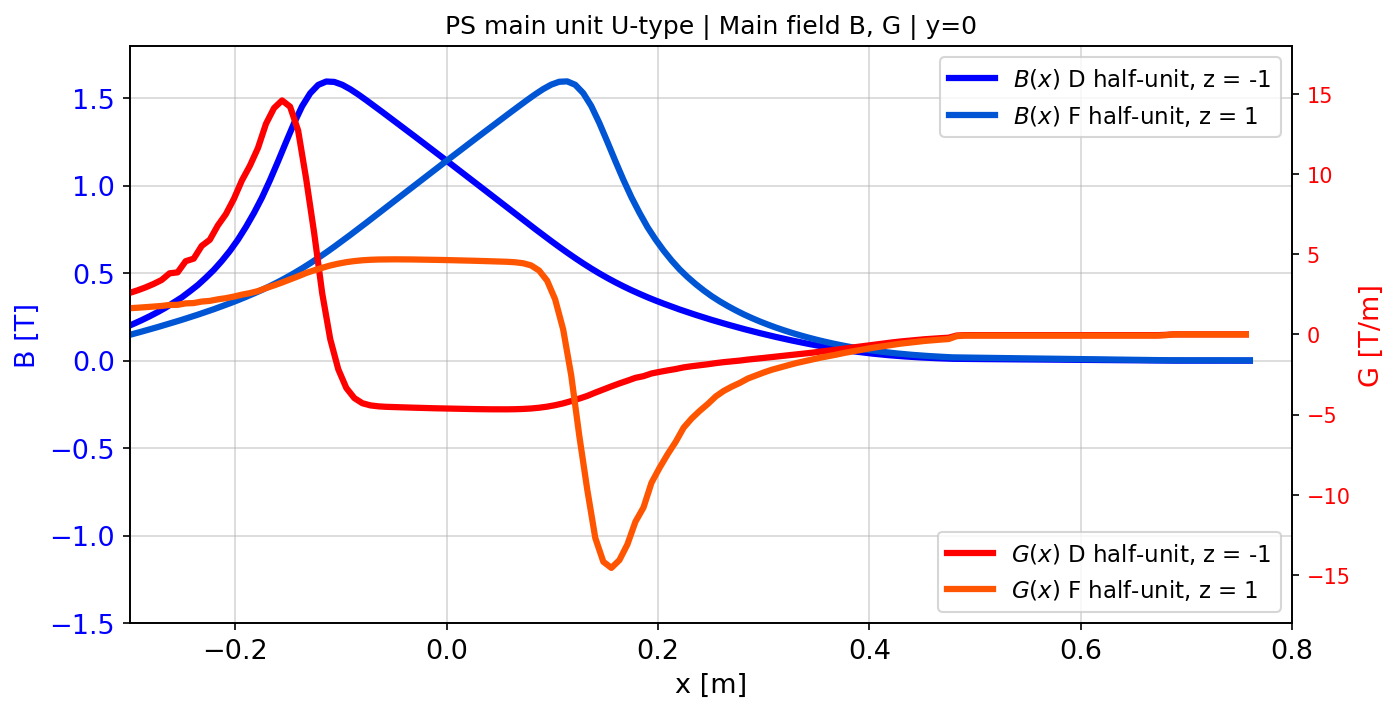
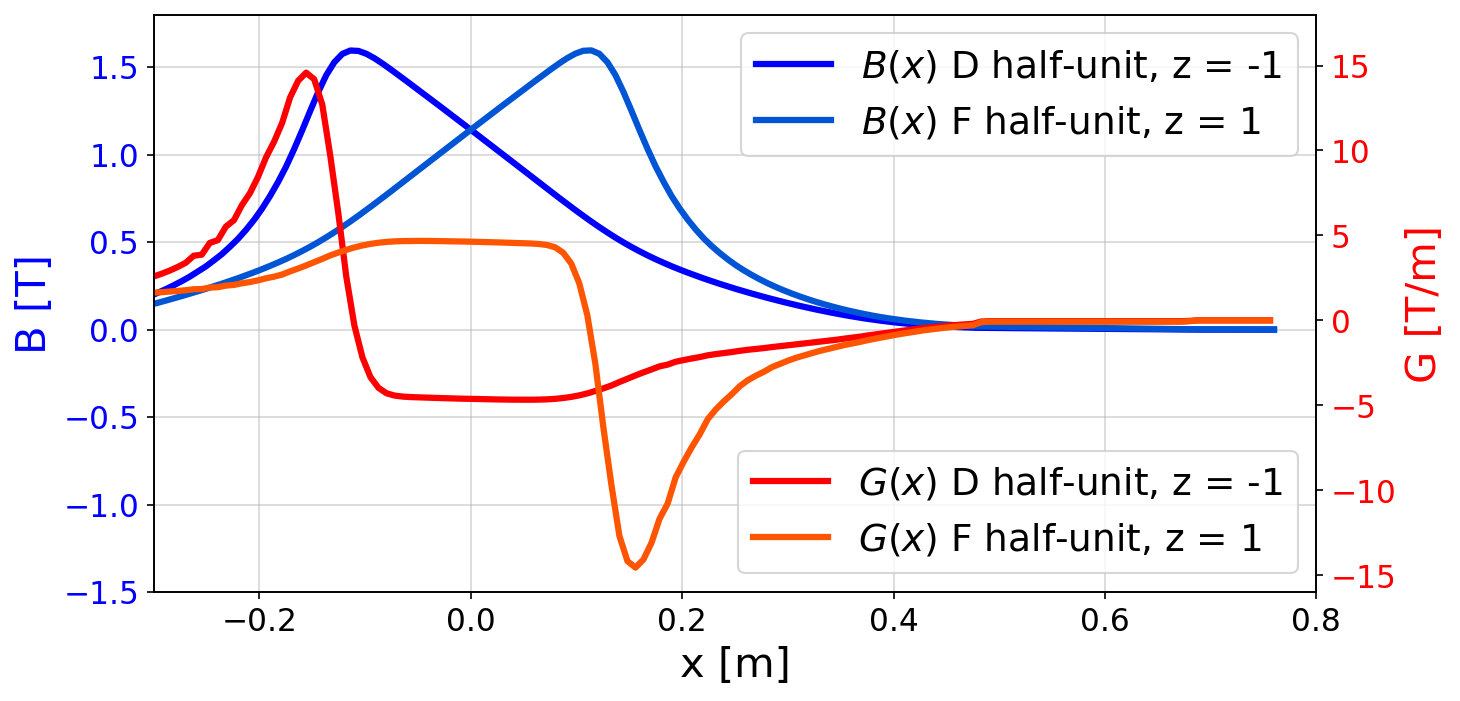
Increase the font of several images

diff --git a/JACoW_LaTeX_A4.tex b/JACoW_LaTeX_A4.tex
@@ -126,12 +126,10 @@ $$ x_{j} = \frac{x_{i+1} + x_{i}}{{2}} $$
  
 The gradient is constant and alternating in the central orbit region but reverses signs at the periphery and increases in magnitude in a nonlinear way; see Fig.\ref{fig:gradient_field}. Similar results have been previously made using magnetic measurements of the MU fields \cite{manglunki_beam_1997}. Earlier models of the stray field for extraction 16 at 26 GeV/c proved to be adequate in the description of operational beams. However, the OPERA model adds the possibility to quickly generate field maps at different energies, different PFW, different F8L settings and for different magnet types. Field maps produced with the OPERA model also have virtually infinite lengths, whereas physical measurements are limited by the geometry of the magnet and the measuring instrument (-0.07 m $\leq$ x $\leq$ 0.31 and -2.55 m $\leq$ z $\leq$ 2.73), \cite{manglunki_beam_1997}.
 
-
-
 \begin{figure}[!htb]
    \centering
    \includegraphics*[width=1.0\columnwidth, trim={0 0 0 0cm},clip]{Main_field_B_G.png}
-   \caption{Gradient field of a U-type magnet centered in the vertical plane in both half-units at 24 GeV}
+   \caption{PS main unit U-type | Main field B, G | y=0, Gradient field of a U-type magnet centered in the vertical plane in both half-units at 24 GeV}
    \label{fig:gradient_field}
 \end{figure}
 
@@ -139,7 +137,7 @@ The gradient is constant and alternating in the central orbit region but reverse
 Particle tracking through field maps is done using the Boris algorithm that tracks charged particles in EM-fields using the discretized equation of motion of the Lorentz force\cite{qin_why_2013}\cite{ripperda_comprehensive_2018}. Additionally, numerical tracking of a number of representative particles allows one to produce transfer matrices that can be implemented in tracking simulation such as MAD-X \cite{yoon_method_2013}.
 
 \section{Beam Tracking}
-Fields maps at three different energies for each magnet type have been produced: injection at 2 GeV/c with 533 A, slow extraction to the east area at 24 GeV/c at 4642 A, and extraction to the SPS at 26.4 GeV/c at 5386 A. In the following, the injection from the BTP transfer line to the PS and the extraction from the PS to the East Area have been studied.
+Fields maps have been produced for each magnet type at three different energies: injection at 2 GeV/c with 533 A, slow extraction to the east area at 24 GeV/c with 4642 A, and extraction to the SPS at 26.4 GeV/c with 5386 A. In the following, the injection from the BTP transfer line to the PS and the extraction from the PS to the East Area have been studied.
 
 \subsection{Injection BTP}
 As the beam is injected via the BTP transfer line to the PS ring, it passes through the stray fields of the PR.BHT41 T-type MU magnet. The beam traverses mostly through the defocusing half part and feels a non-linear increase in the gradient up to the nominal value in the central orbit. Once through the MU 41, the beam is kicked by the PI.SMH42 septum magnet to capture the reference orbit. Beam position can then be measured using the downstream Secondary Emission Grid (SEM Grid) PI.BSG42. Single particle tracking is done by centering the initial beam in the middle of the injection pipe using the GEODE reference points see Fig. \ref{fig:injection_btp}.
@@ -147,7 +145,7 @@ As the beam is injected via the BTP transfer line to the PS ring, it passes thro
 \begin{figure}[!htb]
    \centering
    \includegraphics*[width=1.0\columnwidth]{injection_btp.png}
-   \caption{Tracking through MU 41 T-type. It can be noticed that the field map is straight as opposed to the curved technical drawing.}
+   \caption{Tracking through MU 41 T-type, momentum 2 GeV/c, extraction offset 54.684 mm, angle 5.093 degrees. It can be noticed that the field map is straight as opposed to the curved technical drawing.}
    \label{fig:injection_btp}
 \end{figure}
 
@@ -156,7 +154,7 @@ Measurements have been done by scaling the current in all main units using the P
 \begin{figure}[!htb]
    \centering
    \includegraphics*[width=1.0\columnwidth]{transverse_position_vs_POPS}
-   \caption{Comparison between the transverse position as function of B field in MU41}
+   \caption{BT3 BTP PS, Kick response as a function of POPS measurement compared with the multipole field coefficient model and the OPERA tracking model}
    \label{fig:injection_btp_transverse_position}
 \end{figure}
 
